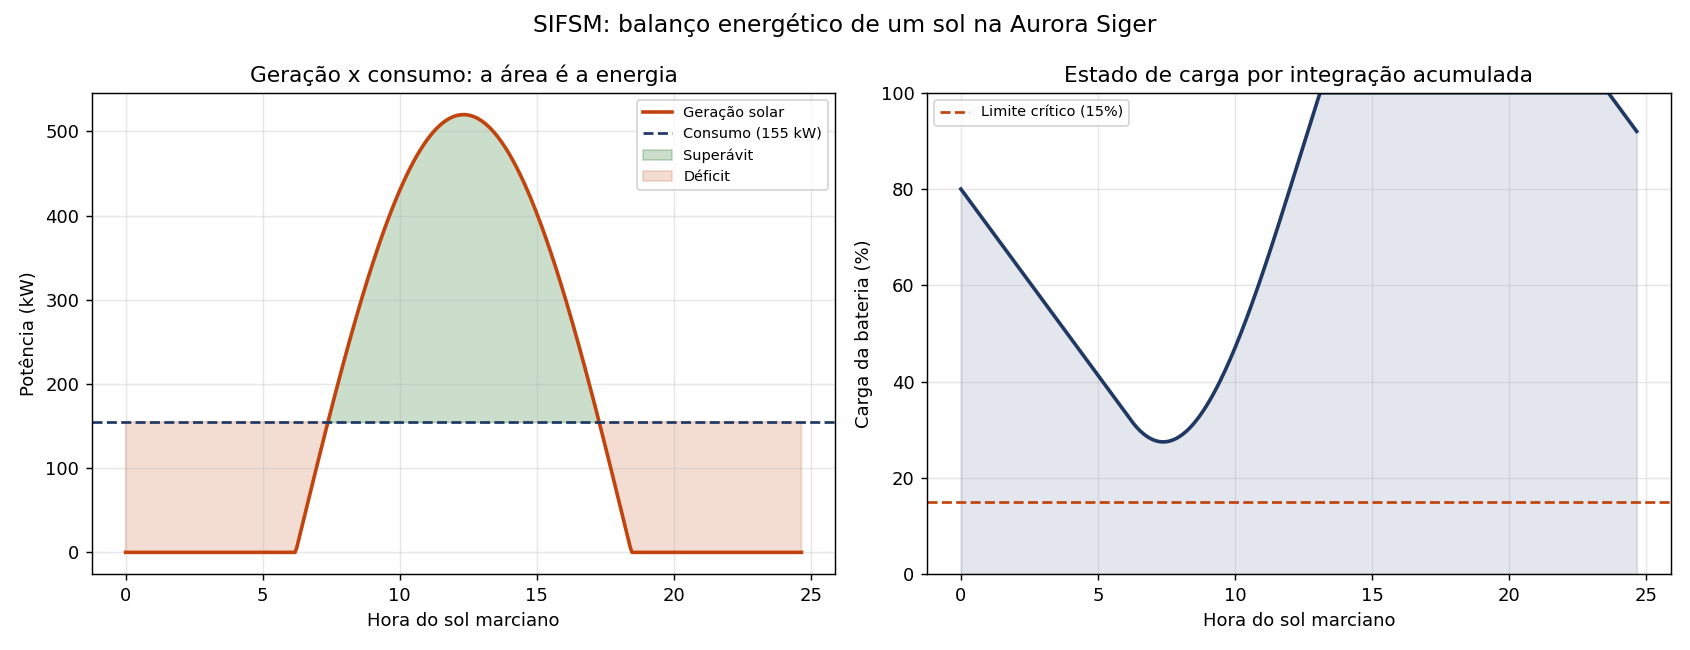
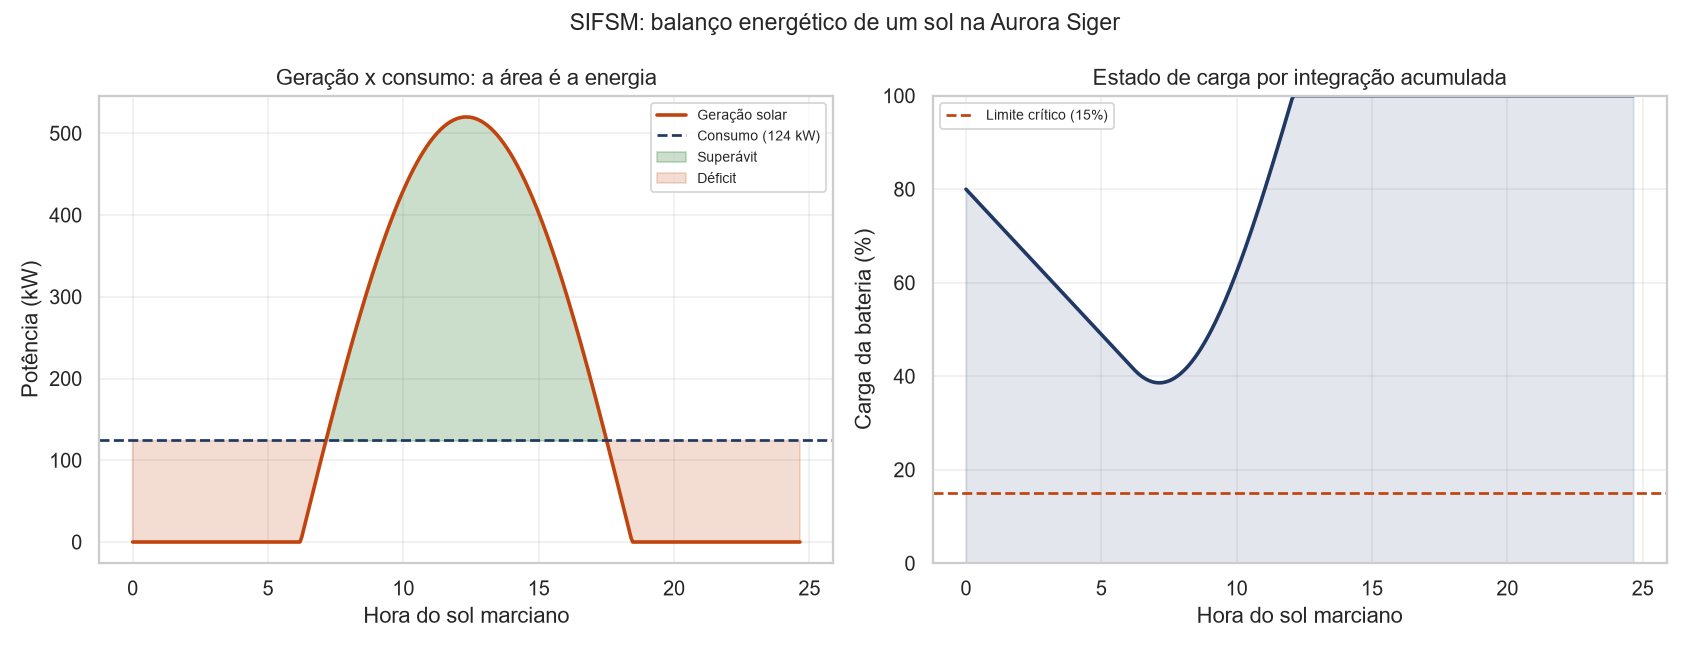
Corrige limitacao 5, notacao dos resistores e PNG do circuito na raiz

diff --git a/codigo_fonte.py b/codigo_fonte.py
@@ -858,7 +858,7 @@ def opcao_regra_logica(con, interativo=True):
     print("  com a porta AND de quatro entradas, o inversor do LED de bloqueio e")
     print("  o esquema de ligações da placa.")
     print("  O sketch equivalente para Arduino está em arduino_irrigacao.ino: quatro")
-    print("  entradas digitais com pull-down de 10k, um LED verde para irrigação")
+    print("  entradas digitais com pull-down de 10 k ohm, um LED verde para irrigação")
     print("  liberada, um LED vermelho para bloqueio e um módulo relé na bomba.")
 
 
@@ -1360,7 +1360,8 @@ def opcao_analise_final(con, resultado_modelo=None):
     print("     interpretar linguagem livre.")
     print("  4. O banco é SQLite em arquivo único, adequado ao protótipo mas sem")
     print("     concorrência de escrita, que um Oracle ou Postgres resolveria.")
-    print("  5. O circuito lógico é representado e simulado, sem hardware real.")
+    print("  5. O circuito lógico é representado em diagrama e implementado em")
+    print("     código embarcado, sem hardware montado nem simulação eletrônica.")
 
     _painel_final(con)
 

diff --git a/README.md b/README.md
@@ -97,7 +97,7 @@ A rede física entre os módulos, com as distâncias em metros, vem do grafo da 
 
 O banco `aurora_siger.db` não acompanha a entrega: ele é criado na primeira execução, a partir do `script_banco.sql`.
 
-O arquivo `graficos_ou_imagens/evidencia_execucao.txt` traz a saída completa de `python codigo_fonte.py --demo`, com 684 linhas e sem nenhum erro, como evidência de que a entrega roda de ponta a ponta.
+O arquivo `graficos_ou_imagens/evidencia_execucao.txt` traz a saída completa de `python codigo_fonte.py --demo`, com 685 linhas e sem nenhum erro, como evidência de que a entrega roda de ponta a ponta.
 
 Sobre o circuito: o enunciado aceita representação, explicação ou simulação. Optamos por representar, em `circuito_logico.png`, as portas lógicas, a tabela verdade e o esquema de ligações da placa, e por entregar o código embarcado em `arduino_irrigacao.ino`. Os pinos desenhados na figura são os mesmos declarados no sketch, de modo que diagrama e código não divergem.
 
